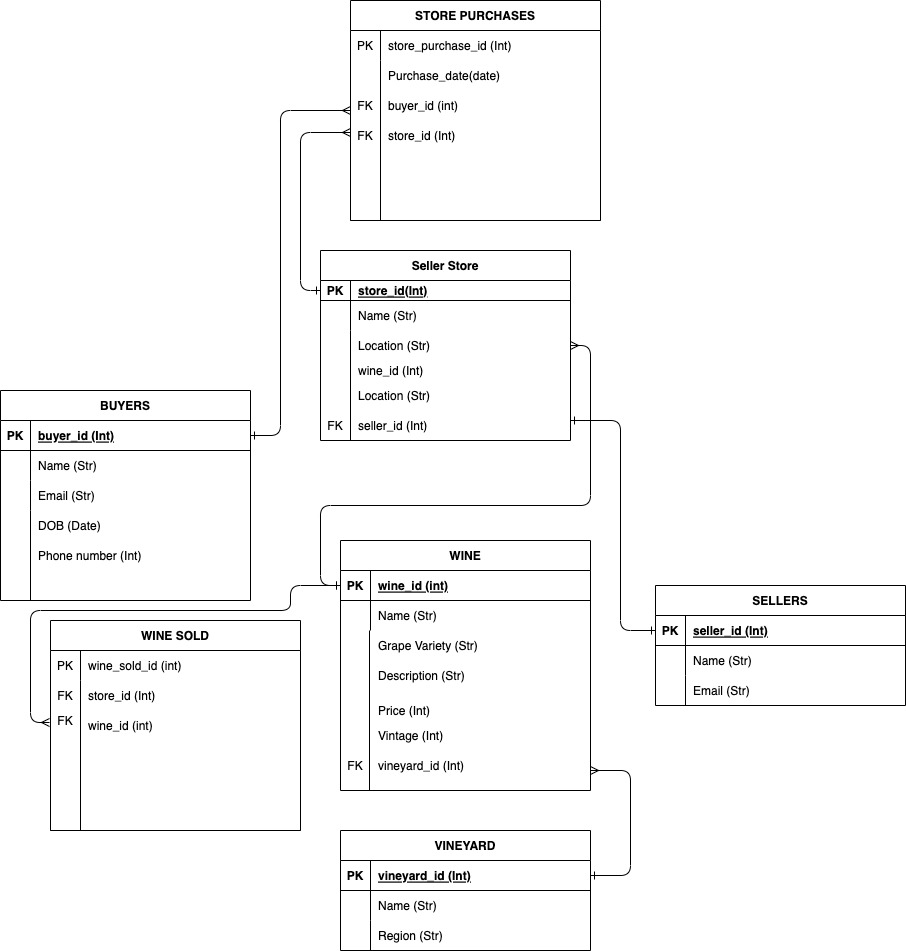
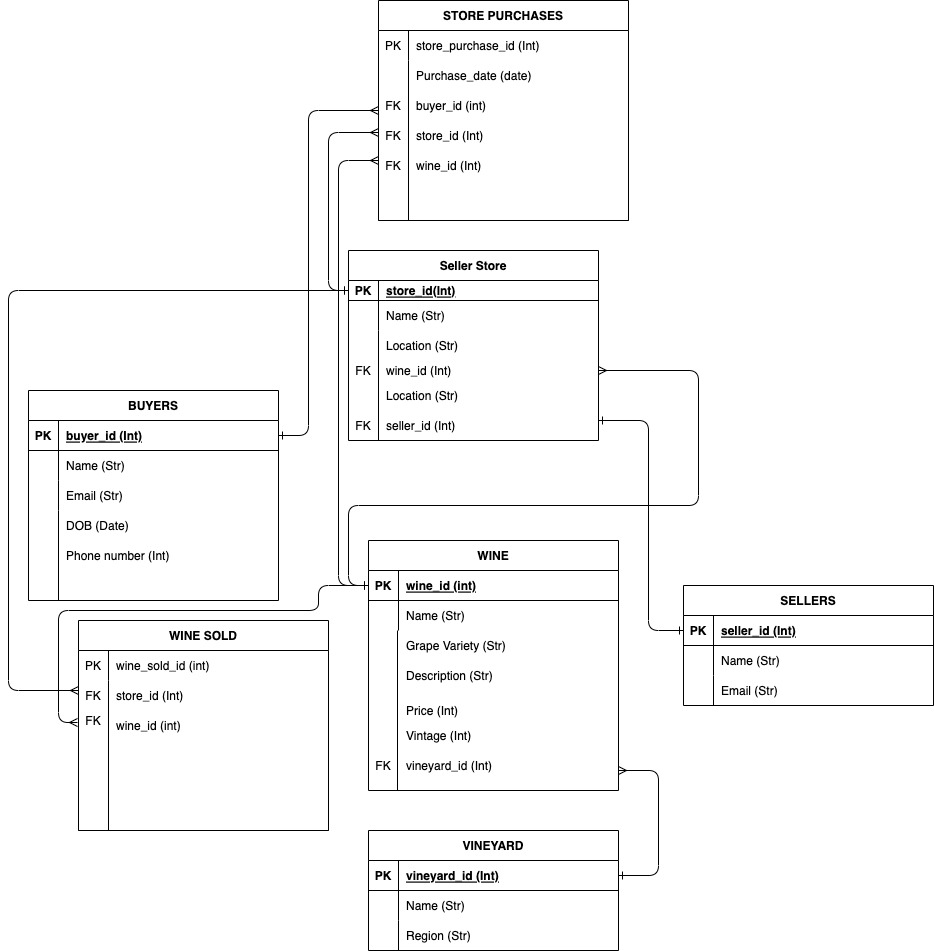
finalised relationship between seller & store

diff --git a/commands.py b/commands.py
@@ -6,6 +6,7 @@ from models.user import User
 from models.wine import Wine
 from models.vineyard import Vineyard
 from models.seller import Seller
+from models.store import Store
 
 db_commands = Blueprint("db", __name__)
 
@@ -38,6 +39,7 @@ def seed_db():
         region = "Clare Valley"
     )
     db.session.add(vineyard3)
+    db.session.commit()
 
     wine1 = Wine(
         name = "Shaw & Smith Shiraz",
@@ -115,7 +117,6 @@ def seed_db():
     db.session.add(user2)
 
     seller1 = Seller(
-        shop_name = "Brisbane Local Wine",
         email = "admin@blw.com.au",
         username = "george28",
         password = bcrypt.generate_password_hash("123456").decode("utf-8")
@@ -123,12 +124,27 @@ def seed_db():
     db.session.add(seller1)
 
     seller2 = Seller(
-        shop_name = "Little Ripples Wine",
         email = "admin@littleripples.com.au",
         username = "AnnaJ",
-        password = bcrypt.generate_password_hash("123456").decode("utf-8")
+        password = bcrypt.generate_password_hash("123456").decode("utf-8"),
+        
     )
-    db.session.add(seller2)
 
+    db.session.add(seller2)
+    db.session.commit()
+
+    store1 = Store(
+        name = "Little Ripples Online Wine Sales",
+        location = "Brisbane",
+        seller = seller2
+    )
+    db.session.add(store1)
+    store2 = Store(
+        name = "Corks & Cakes",
+        location = "Sydney",
+        seller = seller1
+    )
+
+    db.session.add(store2)
     db.session.commit()
     print("Tables seeded")

diff --git a/models/seller.py b/models/seller.py
@@ -1,10 +1,21 @@
 from main import db
+from models.store import Store
 
 class Seller(db.Model):
-    __tablename__ = "sellers"
+    __tablename__ = "seller"
 
     seller_id = db.Column(db.Integer, primary_key=True)
-    shop_name = db.Column(db.String(), unique=True)
     email = db.Column(db.String(), nullable=False)
     username = db.Column(db.String(), nullable=False, unique=True)
     password = db.Column(db.String(), nullable=False)
+    store = db.relationship(
+        "Store",
+        backref = "seller",
+        cascade="all, delete"
+    )
+    
+
+
+    
+   
+    

diff --git a/controllers/vineyard_controller.py b/controllers/vineyard_controller.py
@@ -6,6 +6,12 @@ from flask_jwt_extended import jwt_required, get_jwt_identity
 
 vineyard = Blueprint('Vineyard', __name__, url_prefix="/vineyards")
 
+@vineyard.route('/', methods=["GET"])
+def get_vineyards():
+    vineyard_list = Vineyard.query.all()
+    result = vineyards_schema.dump(vineyard_list)
+    return jsonify(result)
+
 # Route to get a single vineyard back based on the vineyard id
 @vineyard.route("/<int:id>", methods=["GET"])
 def get_vineyard(id):

diff --git a/schemas/seller_schema.py b/schemas/seller_schema.py
@@ -3,8 +3,10 @@ from marshmallow.validate import Length
 
 class SellerSchema(ma.Schema):
     class Meta:
-        fields = ("seller_id", "shop_name", "email", "username", "password")
+        ordered=True
+        fields = ("seller_id", "email", "username", "password", "store")
 
         password = ma.String(validate=Length(min=6))
 
 seller_schema = SellerSchema()
+sellers_schema = SellerSchema(many=True)

diff --git a/schemas/seller_store_schema.py b/schemas/seller_store_schema.py
@@ -1,0 +1,15 @@
+from main import ma
+from marshmallow import fields
+from schemas.seller_schema import SellerSchema
+
+class StoreSchema(ma.Schema):
+    class Meta:
+        ordered = True
+        fields = ["store_id", "name", "location", "seller"]
+    seller = fields.Nested(SellerSchema)
+    
+
+seller_schema = SellerSchema()
+sellers_schema = SellerSchema(many=True)
+
+

diff --git a/models/store.py b/models/store.py
@@ -1,0 +1,9 @@
+from main import db
+
+class Store(db.Model):
+    __tablename__ = "store"
+
+    store_id = db.Column(db.Integer, primary_key=True)
+    name = db.Column(db.String(), nullable=False)
+    location = db.Column(db.String())
+    seller_id = db.Column(db.Integer, db.ForeignKey("seller.seller_id"), nullable=False)

diff --git a/models/user.py b/models/user.py
@@ -7,3 +7,4 @@ class User(db.Model):
     username = db.Column(db.String(), nullable=False, unique=True)
     email = db.Column(db.String(), nullable=False, unique=True)
     password = db.Column(db.String(), nullable=False)
+    

diff --git a/models/wine.py b/models/wine.py
@@ -10,3 +10,4 @@ class Wine(db.Model):
     description = db.Column(db.String())
     price = db.Column(db.Integer)
     vineyard_id = db.Column(db.Integer, db.ForeignKey("vineyard.vineyard_id"))
+  
